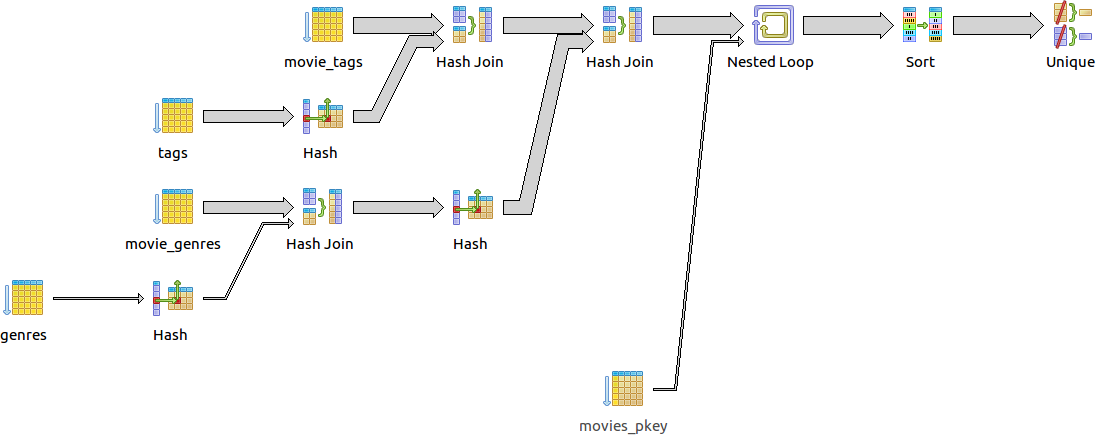
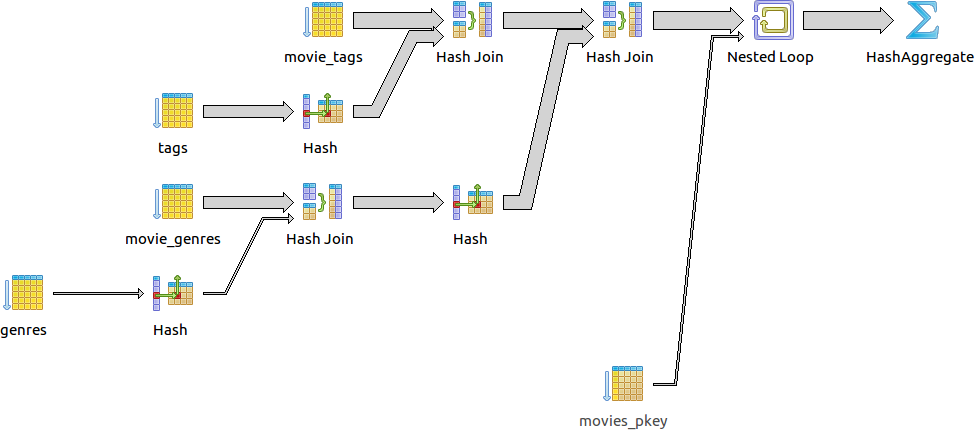
Поправил примеры

diff --git a/content/05.html b/content/05.html
@@ -448,6 +448,30 @@ WHERE title = 'Alice in Wonderland';
 </section>
 
 <section class="slide">
+    <h2>Индексирование. Создание индекса</h2>
+    <pre style="font-size: 80%"><code class="sql">CREATE [ UNIQUE ] INDEX [ CONCURRENTLY ]
+       [ [ IF NOT EXISTS ] имя ] ON имя_таблицы [ USING метод ]
+    ( { имя_столбца | ( выражение ) }
+      [ COLLATE правило_сортировки ] [ класс_операторов ]
+      [ ASC | DESC ] [ NULLS { FIRST | LAST } ]
+      [, ...]
+    )
+    [ WITH ( параметр_хранения = значение [, ... ] ) ]
+    [ TABLESPACE табл_пространство ]
+    [ WHERE предикат ]
+
+CREATE INDEX test_index ON test_table (col varchar_pattern_ops);
+</code></pre>
+    <p>Класс_операторов:
+    <ul class="compact">
+        <li>text_pattern_ops</li>
+        <li>varchar_pattern_ops</li>
+        <li>bpchar_pattern_ops</li>
+    </ul>
+    </p>
+</section>
+
+<section class="slide">
     <h2>Индексирование. Подытоживание</h2>
     <ul class="compact">
         <li>В большинстве случаев нужен btree-индекс;</li>
@@ -542,13 +566,13 @@ join genres       g  on (g.id = gm.genre_id)
 join movie_tags   tm on (tm.movie_id = m.id)
 join tags         t  on (t.id = tm.tag_id)
 join ratings      r  on (r.movie_id = m.id)
-where g.name = 'Comedy'
-  and t.name like 'Zombie%'
+where lower(g.name) = lower('Comedy')
+  and lower(t.name) like lower('Zombie%')
 group by m.id, m.title
 order by avg(r.rating) desc;</code></pre>
     <div class="next">
         <pre><code class="text">
-Total query runtime: 01:34 minutes
+Total query runtime: 7.7 secs
 60 строк получено.</code></pre>
     </div>
     <img class="next" src="zombie-sad.png" height="250px" style="position: absolute; right: 50px; bottom: 50px"/>
@@ -605,9 +629,22 @@ select * from movies where title = 'Alice in Wonderland'
 
 <section class="slide">
     <h2>Как выполняется запрос?</h2>
-    <h3>Два условия и два индекса</h3>
+    <h3>Сортировка и индексы</h3>
     <pre><code class="sql">create index idx_movies_title on movies (title);
 create index idx_movies_year on movies (year);
+
+select * from movies where title = 'Alice in Wonderland'
+order by year;
+
+select * from movies where title <> 'Alice in Wonderland'
+order by year;</code></pre>
+</section>
+
+<section class="slide">
+    <h2>Как выполняется запрос?</h2>
+    <h3>Сортировка и индексы</h3>
+    <pre><code class="sql">create index idx_movies_ty on movies (title, year);
+create index idx_movies_yt on movies (year, title);
 
 select * from movies where title = 'Alice in Wonderland'
 order by year;
@@ -989,10 +1026,10 @@ join movie_genres gm on (gm.movie_id = m.id)
 join genres       g  on (g.id = gm.genre_id)
 join movie_tags   tm on (tm.movie_id = m.id)
 join tags         t  on (t.id = tm.tag_id)
-where g.name = 'Comedy'
-  and t.name = 'Zombie';
+where lower(g.name) = lower('Comedy')
+  and lower(t.name) = lower('Zombie');
 
-Total query runtime: 164 msec
+Total query runtime: 182 msec
 21 строка получена.</code></pre>
 </section>
 
@@ -1003,32 +1040,31 @@ Total query runtime: 164 msec
 
 <section class="slide">
     <h2>EXPLAIN: Текстовое представление</h2>
-    <pre style="font-size: 50%"><code class="sql">                                                QUERY PLAN
-----------------------------------------------------------------------------------------------------------
- Unique  (cost=15905.49..15905.50 rows=2 width=24)
-   ->  Sort  (cost=15905.49..15905.49 rows=2 width=24)
-         Sort Key: m.id, m.title
-         ->  Nested Loop  (cost=2445.82..15905.48 rows=2 width=24)
-               Join Filter: (gm.movie_id = m.id)
-               ->  Hash Join  (cost=2445.53..15904.83 rows=2 width=8)
-                     Hash Cond: (tm.movie_id = gm.movie_id)
-                     ->  Hash Join  <mark>(cost=933.73..14392.96 rows=13 width=4)</mark>
-                           Hash Cond: (tm.tag_id = t.id)
-                           ->  <mark>Seq Scan</mark> on movie_tags tm  <mark>(cost=0.00..10950.53 rows=668953 width=8)</mark>
-                           ->  Hash  (cost=933.71..933.71 rows=1 width=4)
-                                 ->  Seq Scan on tags t  (cost=0.00..933.71 rows=1 width=4)
-                                       <mark>Filter: (name = 'Zombie'::citext)</mark>
-                                       <mark>Rows Removed by Filter: 49655</mark>
-                     ->  Hash  (cost=1462.97..1462.97 rows=3907 width=4)
-                           ->  Hash Join  (cost=1.25..1462.97 rows=3907 width=4)
-                                 Hash Cond: (gm.genre_id = g.id)
-                                 ->  Seq Scan on movie_genres gm  (cost=0.00..1144.29 rows=74229 width=8)
-                                 ->  Hash  (cost=1.24..1.24 rows=1 width=4)
-                                       ->  Seq Scan on genres g  (cost=0.00..1.24 rows=1 width=4)
-                                             Filter: (name = 'Comedy'::citext)
-               ->  Index Scan using movies_pkey on movies m  (cost=0.29..0.31 rows=1 width=24)
-                     Index Cond: (id = tm.movie_id)
-(22 строки)
+    <pre style="font-size: 50%"><code class="sql">                                             QUERY PLAN
+----------------------------------------------------------------------------------------------------
+ HashAggregate  (cost=16212.83..16216.83 rows=400 width=24)
+   Group Key: m.id, m.title
+   ->  Nested Loop  (cost=2573.10..16210.83 rows=400 width=24)
+         Join Filter: (gm.movie_id = m.id)
+         ->  Hash Join  (cost=2572.81..16081.85 rows=400 width=8)
+               Hash Cond: (tm.movie_id = gm.movie_id)
+               ->  Hash Join  <mark>(cost=1060.95..14553.47 rows=3341 width=4)</mark>
+                     Hash Cond: (tm.tag_id = t.id)
+                     ->  <mark>Seq Scan</mark> on movie_tags tm  <mark>(cost=0.00..10950.53 rows=668953 width=8)</mark>
+                     ->  Hash  (cost=1057.86..1057.86 rows=248 width=4)
+                           ->  Seq Scan on tags t  (cost=0.00..1057.86 rows=248 width=4)
+                                 <mark>Filter: (lower(name) = 'zombie'::text)</mark>
+                                 <mark>Rows Removed by Filter: 49655</mark>
+               ->  Hash  (cost=1463.02..1463.02 rows=3907 width=4)
+                     ->  Hash Join  (cost=1.30..1463.02 rows=3907 width=4)
+                           Hash Cond: (gm.genre_id = g.id)
+                           ->  Seq Scan on movie_genres gm  (cost=0.00..1144.29 rows=74229 width=8)
+                           ->  Hash  (cost=1.28..1.28 rows=1 width=4)
+                                 ->  Seq Scan on genres g  (cost=0.00..1.28 rows=1 width=4)
+                                       Filter: (lower(name) = 'comedy'::text)
+         ->  Index Scan using movies_pkey on movies m  (cost=0.29..0.31 rows=1 width=24)
+               Index Cond: (id = tm.movie_id)
+(21 rows)
     </code></pre>
 </section>
 
@@ -1041,9 +1077,9 @@ CREATE INDEX idx_movie_tags_tag_id ON movie_tags (tag_id);
 CREATE INDEX idx_movie_tags_movie_id ON movie_tags (movie_id);
 CREATE INDEX idx_ratings_movie_id ON ratings (movie_id);
 
-CREATE INDEX idx_movies_title ON movies (title);
-CREATE INDEX idx_genres_name ON genres (name);
-CREATE INDEX idx_tags_name ON tags (name);
+CREATE INDEX idx_movies_title ON movies (LOWER(title) text_pattern_ops);
+CREATE INDEX idx_genres_name ON genres (LOWER(name) text_pattern_ops);
+CREATE INDEX idx_tags_name ON tags (LOWER(name) text_pattern_ops);
     </code></pre>
 </section>
 
@@ -1055,10 +1091,10 @@ join movie_genres gm on (gm.movie_id = m.id)
 join genres       g  on (g.id = gm.genre_id)
 join movie_tags   tm on (tm.movie_id = m.id)
 join tags         t  on (t.id = tm.tag_id)
-where g.name = 'Comedy'
-  and t.name = 'Zombie';
+where lower(g.name) = lower('Comedy')
+  and lower(t.name) = lower('Zombie');
 
-Total query runtime: 11 msec
+Total query runtime: 12 msec
 21 строка получена.</code></pre>
 </section>
 
@@ -1071,28 +1107,28 @@ Total query runtime: 11 msec
     <h2>EXPLAIN: Текстовое представление</h2>
     <pre style="font-size: 45%"><code class="sql">                                                          QUERY PLAN
 -------------------------------------------------------------------------------------------------------------------------------
- Unique  (cost=264.52..264.54 rows=2 width=24)
-   ->  Sort  (cost=264.52..264.53 rows=2 width=24)
+ Unique  (cost=271.50..271.51 rows=2 width=24)
+   ->  Sort  (cost=271.50..271.50 rows=2 width=24)
          Sort Key: m.id, m.title
-         ->  Nested Loop  (cost=5.94..264.51 rows=2 width=24)
+         ->  Nested Loop  (cost=5.96..271.49 rows=2 width=24)
                Join Filter: (gm.movie_id = m.id)
-               ->  Nested Loop  (cost=5.65..263.87 rows=2 width=8)
+               ->  Nested Loop  (cost=5.67..270.84 rows=2 width=8)
                      Join Filter: (gm.genre_id = g.id)
-                     ->  <mark>Seq Scan on genres g  (cost=0.00..1.24 rows=1 width=4)</mark>
-                           Filter: (name = 'Comedy'::citext)
-                     ->  Nested Loop  (cost=5.65..262.24 rows=31 width=12)
-                           ->  Nested Loop  (cost=5.36..257.68 rows=13 width=4)
+                     ->  <mark>Seq Scan on genres g  (cost=0.00..1.28 rows=1 width=4)</mark>
+                           Filter: (lower(name) = 'comedy'::text)
+                     ->  Nested Loop  (cost=5.67..269.17 rows=31 width=12)
+                           ->  Nested Loop  (cost=5.37..264.60 rows=13 width=4)
                                  ->  Index Scan using idx_tags_name on tags t  (cost=0.41..8.43 rows=1 width=4)
-                                       Index Cond: (name = 'Zombie'::citext)
-                                 ->  Bitmap Heap Scan on movie_tags tm  (cost=4.94..248.58 rows=67 width=8)
+                                       Index Cond: (lower(name) = 'zombie'::text)
+                                 ->  Bitmap Heap Scan on movie_tags tm  (cost=4.96..255.48 rows=69 width=8)
                                        Recheck Cond: (tag_id = t.id)
-                                       ->  Bitmap Index Scan on idx_movie_tags_tag_id  (cost=0.00..4.93 rows=67 width=0)
+                                       ->  Bitmap Index Scan on idx_movie_tags_tag_id  (cost=0.00..4.94 rows=69 width=0)
                                              Index Cond: (tag_id = t.id)
                            ->  Index Scan using idx_movie_genres_movie_id on movie_genres gm  (cost=0.29..0.33 rows=2 width=8)
                                  Index Cond: (movie_id = tm.movie_id)
                ->  Index Scan using movies_pkey on movies m  (cost=0.29..0.31 rows=1 width=24)
                      Index Cond: (id = tm.movie_id)
-(21 строка)
+(21 rows)
     </code></pre>
 </section>
 
@@ -1105,12 +1141,12 @@ join genres       g  on (g.id = gm.genre_id)
 join movie_tags   tm on (tm.movie_id = m.id)
 join tags         t  on (t.id = tm.tag_id)
 join ratings      r  on (r.movie_id = m.id)
-where g.name = 'Comedy'
-  and t.name like 'Zombie%'
+where lower(g.name) = lower('Comedy')
+  and lower(t.name) like lower('Zombie%')
 group by m.id, m.title
 order by avg(r.rating) desc;</code></pre>
     <pre><code class="text">
-Total query runtime: 24.9 secs
+Total query runtime: 10.9 secs
 60 строк получено.</code></pre>
 </section>
 
@@ -1124,8 +1160,8 @@ from (
   join genres       g  on (g.id = gm.genre_id)
   join movie_tags   tm on (tm.movie_id = m.id)
   join tags         t  on (t.id = tm.tag_id)
-  where g.name = 'Comedy'
-    and t.name like 'Zombie%'
+  where lower(g.name) = lower('Comedy')
+    and lower(t.name) like lower('Zombie%')
   group by m.id
 ) m
 join ratings r on (r.movie_id = m.id)
@@ -1133,6 +1169,6 @@ group by m.id, m.title
 order by avg(r.rating) desc;
 </code></pre>
     <pre style="font-size: 80%"><code class="text">
-Total query runtime: 862 msec
+Total query runtime: 486 msec
 60 строк получено.</code></pre>
 </section>
